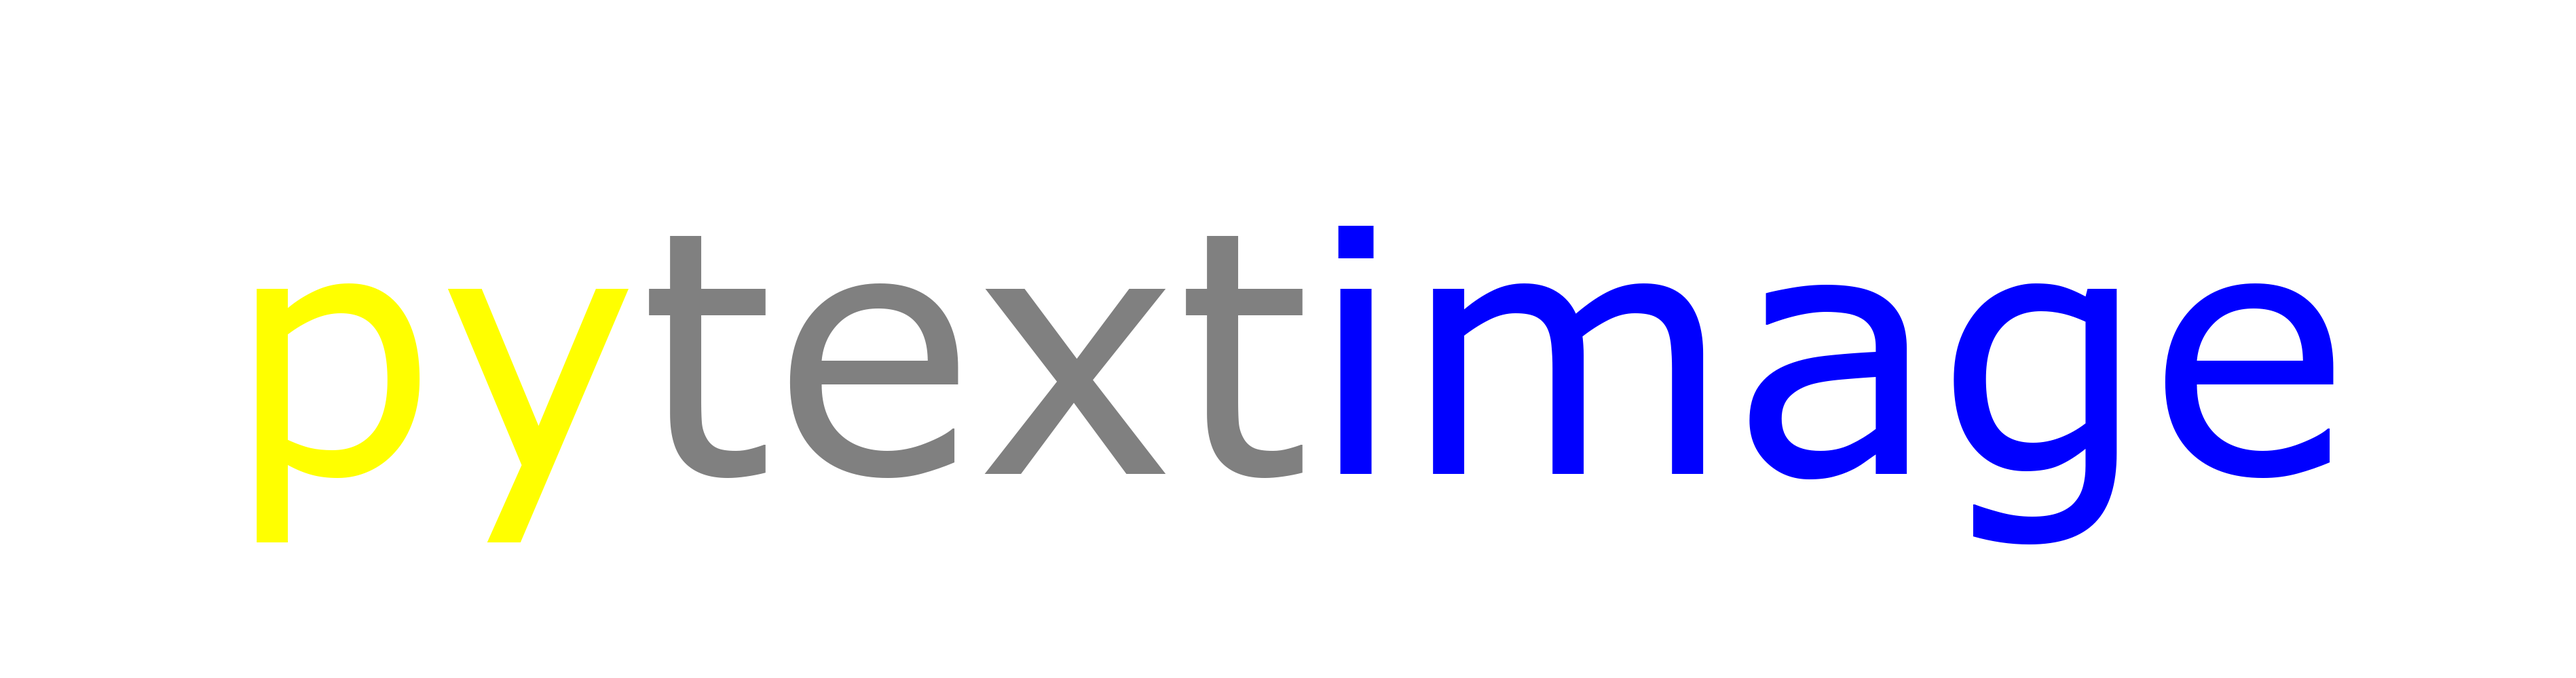
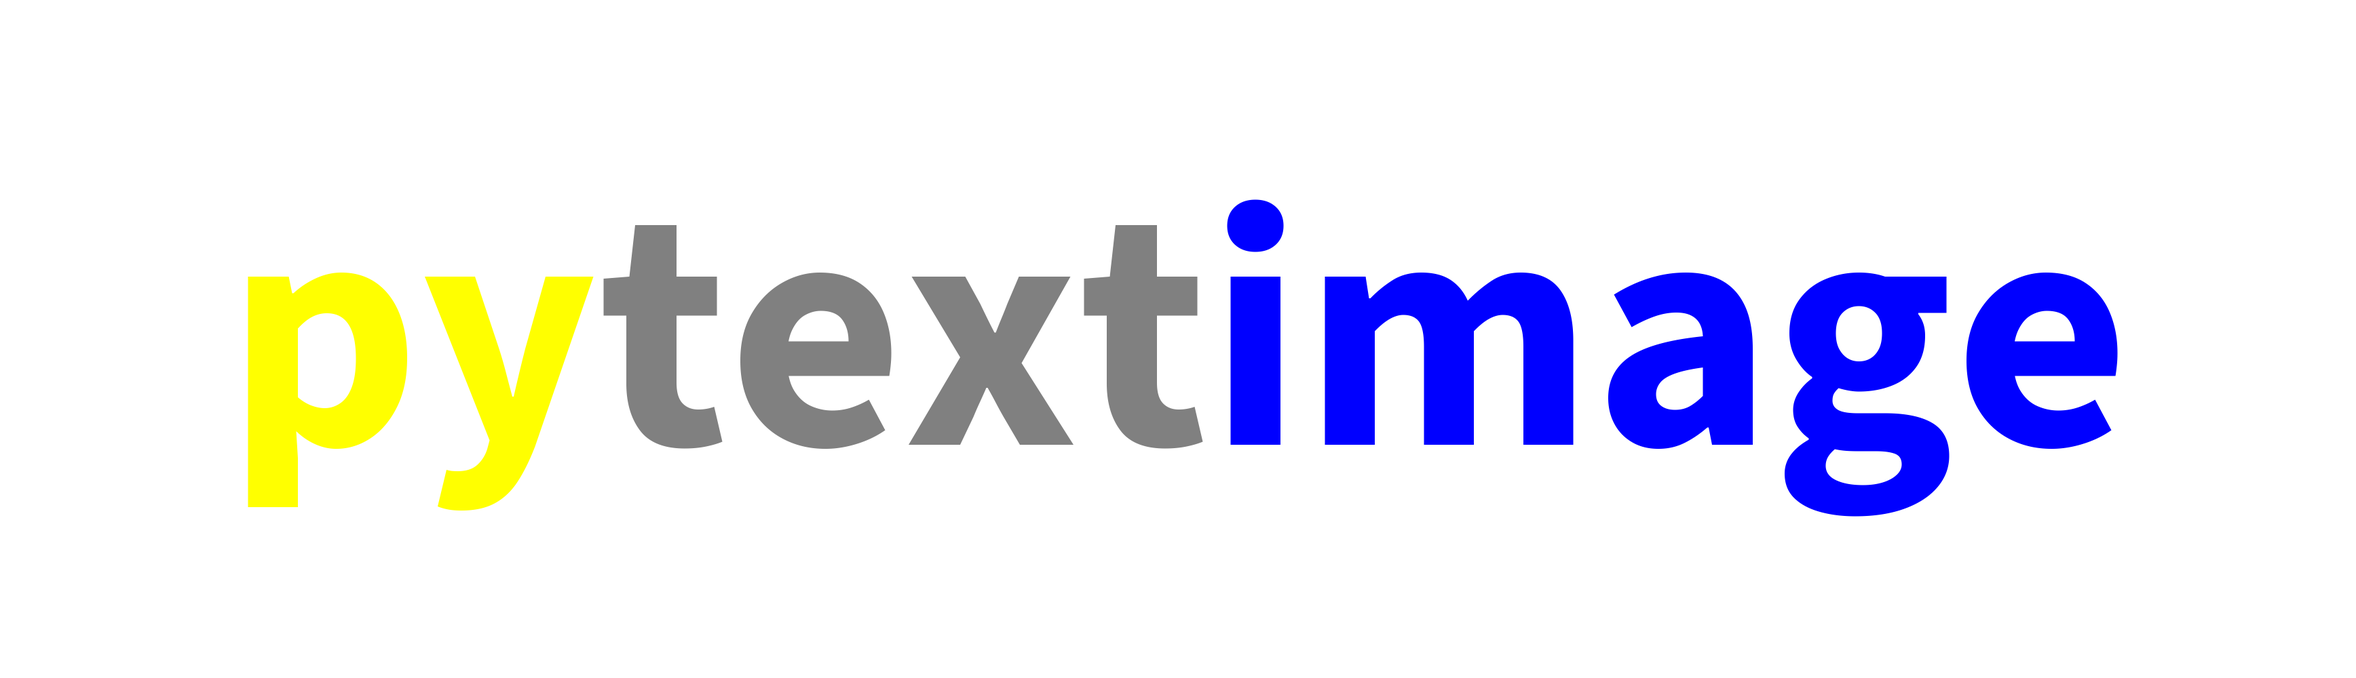
Update image and README

Changed region(s): [[0.0933, 0.279, 0.9332, 0.806]]

diff --git a/README.md b/README.md
@@ -2,9 +2,18 @@
 Generate custom images with text easily.
 
 ![pytextimage.png](pytextimage.png)
-*Generated by **pytextimage***
+<details>
+<summary><i>Generated by <b>pytextimage</b></i></summary>
+This image was created with this command:
+
+```
+pytextimage -b transparent -t py [path to SourceSans3-Bold] yellow -t text [path to SourceSans3-Bold] grey -t image [path to SourceSans3-Bold] blue -s pytextimage.png
+```
+</details>
 
 ## Installation
+Install ```python3``` and ```fontconfig```. (It can work without ```fontconfig``` however it won't be able to resolve fonts so you will have to type their names exactly. Default sans-serif font won't work either.)
+
 Run these commands:
 ```
 git clone https://github.com/cosmicproc/pytextimage
@@ -19,3 +28,8 @@ pytextimage
 Just run the program, and it should ask you the required specifications of your desired image.
 If you want to automate or generate image with a single key press, you can also use the command line flags. 
 To learn what flags are available, use the ```-h``` or ```--help``` flag.
+
+## Use Cases
+- GitHub repository social cards
+- Letter profile images
+- Text-based logos
